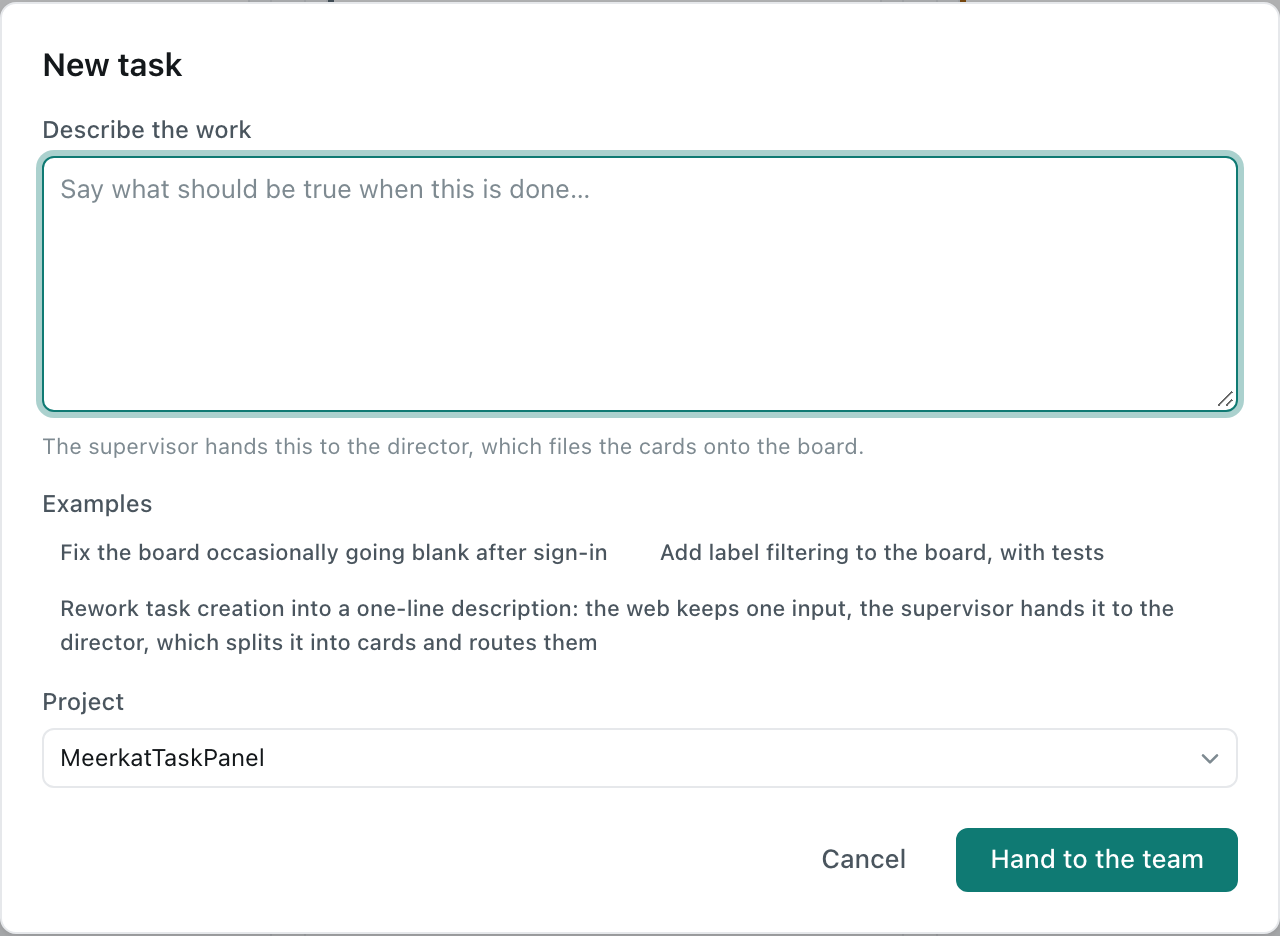
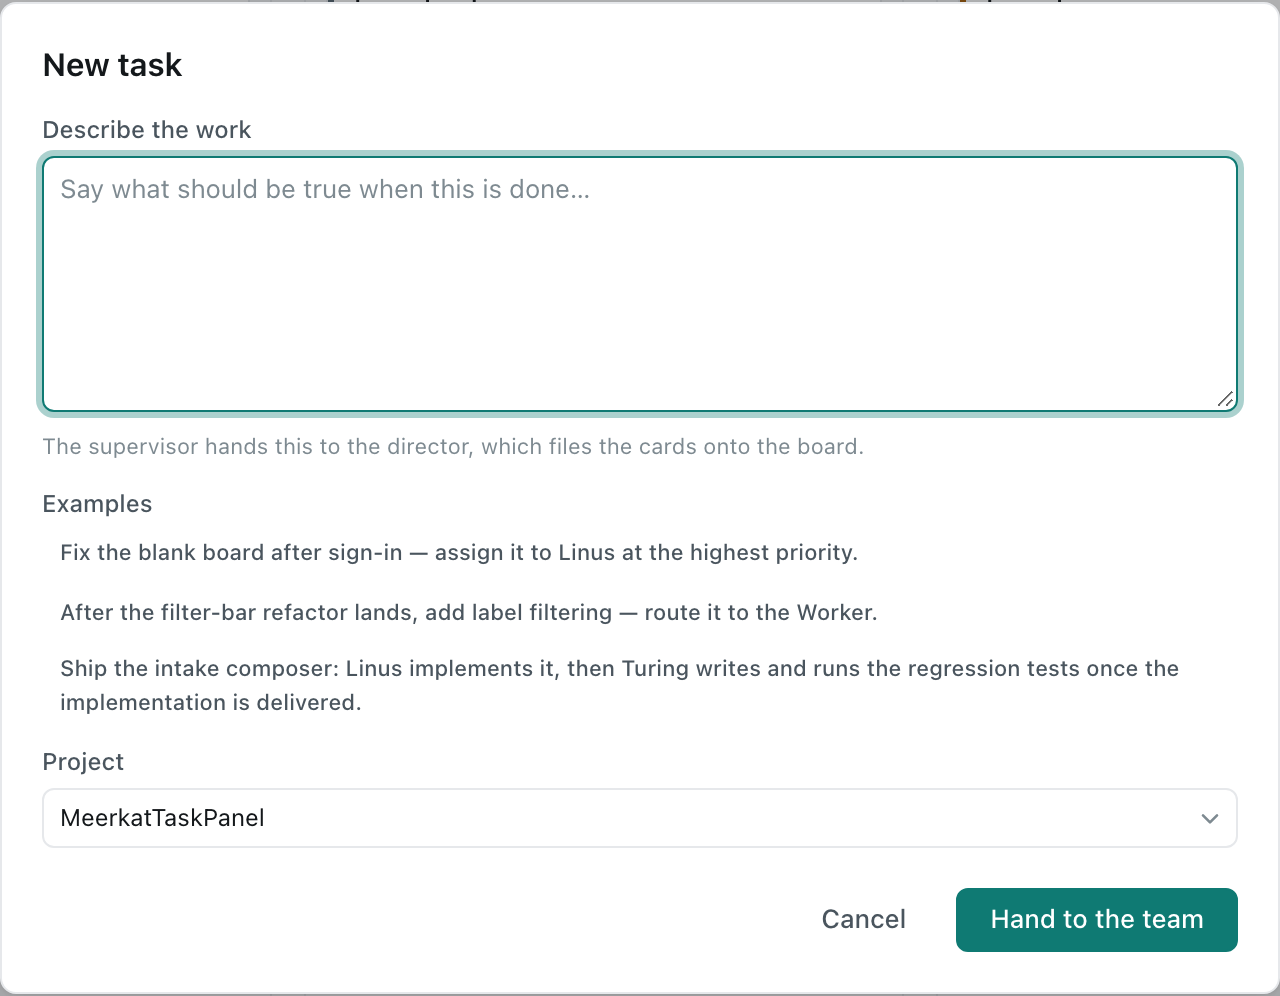
feat(create): make the examples a three-row routing ladder

diff --git a/design/prototype/app.js b/design/prototype/app.js
@@ -181,9 +181,9 @@
       "createTask.textHint": "Say what should be true when this is done…",
       "createTask.intakeHint": "The supervisor hands this to the director, which files the cards onto the board.",
       "createTask.examples": "Examples",
-      "createTask.example.simple": "Fix the board occasionally going blank after sign-in",
-      "createTask.example.medium": "Add label filtering to the board, with tests",
-      "createTask.example.complex": "Rework task creation into a one-line description: the web keeps one input, the supervisor hands it to the director, which splits it into cards and routes them",
+      "createTask.example.simple": "Fix the blank board after sign-in — assign it to Linus at the highest priority.",
+      "createTask.example.medium": "After the filter-bar refactor lands, add label filtering — route it to the Worker.",
+      "createTask.example.complex": "Ship the intake composer: Linus implements it, then Turing writes and runs the regression tests once the implementation is delivered.",
       "createTask.field.project": "Project",
       /* The two roster controls: free text, fuzzy match, no roster editor. */
       "combo.assigneePlaceholder": "Search or type a new name…",
@@ -506,9 +506,9 @@
       "createTask.textHint": "一句话说明完成时应该是什么样……",
       "createTask.intakeHint": "提交后由 supervisor 交给 director 拆成任务卡，卡片会出现在看板上。",
       "createTask.examples": "示例",
-      "createTask.example.simple": "修复登录后看板偶发空白的问题",
-      "createTask.example.medium": "给看板加按标签筛选，并补上测试",
-      "createTask.example.complex": "把创建任务改成一句话描述：Web 只留一个输入框，提交后由 supervisor 交给 director 拆卡并派给对应角色",
+      "createTask.example.simple": "修复登录后看板偶发空白的问题——交给 Linus，设为最高优先级。",
+      "createTask.example.medium": "等筛选栏重构完成后，给看板加标签筛选——交给 Worker。",
+      "createTask.example.complex": "实现需求投递框：由 Linus 开发，交付后由 Turing 编写并执行回归测试。",
       "createTask.field.project": "项目",
       "combo.assigneePlaceholder": "搜索或输入新姓名…",
       "combo.reporterPlaceholder": "搜索或输入新姓名…",

diff --git a/design/prototype/index.html b/design/prototype/index.html
@@ -4154,9 +4154,9 @@
           <div class="td-field">
             <span class="td-field-label" data-i18n="createTask.examples">Examples</span>
             <div class="td-intake-examples">
-              <button type="button" class="btn btn-xs btn-ghost" data-create-task-example data-example-kind="simple" data-i18n="createTask.example.simple">Fix the board occasionally going blank after sign-in</button>
-              <button type="button" class="btn btn-xs btn-ghost" data-create-task-example data-example-kind="medium" data-i18n="createTask.example.medium">Add label filtering to the board, with tests</button>
-              <button type="button" class="btn btn-xs btn-ghost" data-create-task-example data-example-kind="complex" data-i18n="createTask.example.complex">Rework task creation into a one-line description: the web keeps one input, the supervisor hands it to the director, which splits it into cards and routes them</button>
+              <button type="button" class="btn btn-xs btn-ghost" data-create-task-example data-example-kind="simple" data-i18n="createTask.example.simple">Fix the blank board after sign-in — assign it to Linus at the highest priority.</button>
+              <button type="button" class="btn btn-xs btn-ghost" data-create-task-example data-example-kind="medium" data-i18n="createTask.example.medium">After the filter-bar refactor lands, add label filtering — route it to the Worker.</button>
+              <button type="button" class="btn btn-xs btn-ghost" data-create-task-example data-example-kind="complex" data-i18n="createTask.example.complex">Ship the intake composer: Linus implements it, then Turing writes and runs the regression tests once the implementation is delivered.</button>
             </div>
           </div>
 

diff --git a/web/src/components/create/CreateTaskModal.vue b/web/src/components/create/CreateTaskModal.vue
@@ -120,14 +120,14 @@ async function submit() {
             </span>
           </label>
 
-          <div class="flex flex-col gap-2" data-create-task-examples>
+          <div class="flex flex-col gap-2">
             <span data-i18n="createTask.examples">{{ $t("createTask.examples") }}</span>
-            <div class="flex flex-wrap gap-2">
+            <div class="flex flex-col gap-2" data-create-task-examples>
               <button
                 v-for="example in examples"
                 :key="example.key"
                 type="button"
-                class="btn btn-xs btn-ghost h-auto max-w-full justify-start whitespace-normal text-left"
+                class="btn btn-xs btn-ghost h-auto w-full max-w-full justify-start whitespace-normal text-left"
                 data-create-task-example
                 :data-example-kind="example.key"
                 @click="fillExample(example)"

diff --git a/design/prototype/src/input.css b/design/prototype/src/input.css
@@ -4424,16 +4424,20 @@ html[data-theme="dark"] .modal-box {
     resize: vertical;
   }
 
+  /* R19 — one example per row: the three sentences are a reading ladder
+     (simple → complex), not a chip cloud, so the column order is the order. */
   .td-intake-examples {
     display: flex;
-    flex-wrap: wrap;
+    flex-direction: column;
     gap: 8px;
   }
-  /* An example is a sentence, not a label: it wraps inside the row instead of
-     widening the panel. */
+  /* An example is a sentence, not a label: it takes the whole row and wraps
+     inside it instead of widening the panel. */
   .td-intake-examples .btn {
+    width: 100%;
     max-width: 100%;
     height: auto;
+    justify-content: flex-start;
     white-space: normal;
     text-align: left;
   }

diff --git a/design/prototype/tw.css b/design/prototype/tw.css
@@ -6790,12 +6790,14 @@ html[data-theme="dark"] .modal-box {
   }
   .td-intake-examples {
     display: flex;
-    flex-wrap: wrap;
+    flex-direction: column;
     gap: 8px;
   }
   .td-intake-examples .btn {
+    width: 100%;
     max-width: 100%;
     height: auto;
+    justify-content: flex-start;
     white-space: normal;
     text-align: left;
   }

diff --git a/design/fidelity-r19.md b/design/fidelity-r19.md
@@ -1,0 +1,77 @@
+# 创建面示例：三行阶梯，覆盖路由词汇 · R19
+
+> 需求：谭玉 2026-11-11 会话原话——「创建任务的示例需要优化：1、三个示例排版应当放在独立的三行；2、示例覆盖的任务卡场景代表性不足，需要优化，比如：指派给谁来做，放到最高优先级，放在什么任务完成后来做，需要 turing 介入开发后的测试工作」。
+> 分工：本轮写入面 `design/**` + `web/**` + `test/web/**`；`CHANGELOG.md` 不在此处。
+> 轮次：**R19**。R18 已由 `DESIGN.md` §34（创建面收敛为一个描述框）占用。
+> 口径闭集（逐字使用）：`对齐` · `缺` · `简化` · `自创` · `口径` · `缺失口径`。定位一律「文件:选择器」或「文件:符号」，不写行号锚。
+
+## 0. 结论摘要
+
+- **① 三个示例各占一行。** `.td-intake-examples` 从 `flex-wrap` 改为 `flex-direction: column`；每个 `.btn` 取整行（`width: 100%`、`justify-content: flex-start`），文字在行内换行，面板不被撑宽。
+- **② 示例成为一条路由词汇的阶梯。** 简单例给出**指派人 + 最高优先级**；中等例给出**依赖 + 指派人**；复杂例给出**开发 → Turing 测试**的交接。三句合起来示范「描述里可以带哪些事实」，因为卡的字段最终由 director 决定。
+- **③ 面没有新增 hook、没有新增 i18n key。** `[data-create-task-example]` 仍是 3 个，`data-example-kind` 仍是 `simple|medium|complex`；三份 catalogue 只改值。
+- **④ 契约与浏览器腿都量到「一行一个」。** B10 新增 computed 规则（`flexDirection: column`）；dom-smoke 的 B10 腿量三行 `top` 互异、每行宽度 = 容器宽度（±2px）。
+- **⑤ 重拍两帧。** `10-create-task-modal.png` = 1280×996，`26-create-narrow-760.png` = 1280×980（面板 640×498 / 640×490，DSF 2）。
+
+## 1. 产品决策
+
+创建面只收一段描述，字段由 director 拆卡时决定。示例因此不是装饰，而是**人类可模仿的输入规格**：它要让人看到，描述里可以写清「谁做、多急、等什么、谁接着测」。旧三句只覆盖「修什么、加什么、改什么」，没有一条带路由信息，代表性不足。
+
+| 阶梯 | en | zh | 示范的路由事实 |
+|---|---|---|---|
+| simple | Fix the blank board after sign-in — assign it to Linus at the highest priority. | 修复登录后看板偶发空白的问题——交给 Linus，设为最高优先级。 | 指派人 + 优先级 |
+| medium | After the filter-bar refactor lands, add label filtering — route it to the Worker. | 等筛选栏重构完成后，给看板加标签筛选——交给 Worker。 | 依赖 + 指派人 |
+| complex | Ship the intake composer: Linus implements it, then Turing writes and runs the regression tests once the implementation is delivered. | 实现需求投递框：由 Linus 开发，交付后由 Turing 编写并执行回归测试。 | 开发 → 测试的角色交接 + 依赖 |
+
+三句都仍是**一段自然语言**，不是表单；点选后照旧填入文本框，可继续编辑。卡的语言、项目归属和验收仍由 director 从描述与项目上下文决定，示例不新增字段。
+
+## 2. 原型契约（B10）
+
+| 座位 | 本轮取值 |
+|---|---|
+| 容器 | `.td-intake-examples` = `display: flex; flex-direction: column; gap: 8px` |
+| 每一行 | `.td-intake-examples .btn` = `width: 100%; max-width: 100%; height: auto; justify-content: flex-start; white-space: normal; text-align: left` |
+| 顺序 | 文档顺序即 simple → medium → complex；`data-example-kind` 不变 |
+| hook | `[data-create-task-example]` × 3；`[data-create-task-examples]` 仍包住三行 |
+| 实现镜像 | `[data-create-task-examples]` 移到按钮容器上（原型与实现在同一 hook 上量 `flexDirection`） |
+
+**`口径`：** 原型与实现都在 `[data-create-task-examples]` 上量 `flex-direction: column`；实现按钮带 `w-full`，原型由 `.td-intake-examples .btn` 的 `width: 100%` 承担，两侧等价。
+
+## 3. 实测（宿主 Chromium，DSF 2）
+
+| 断言 | 实测 |
+|---|---|
+| 容器的 `flex-direction` | `column`（契约 computed 规则） |
+| 三行的 `top` | 3 个互异值（浏览器腿） |
+| 每行宽度 vs 容器 | 每行 = 容器宽度（±2px） |
+| 1512×950 面板 | 640 × 498 |
+| 760×900 面板 | 640 × 490 |
+| `blocks.dom` | 2/2 通过；562 条规则 0 失败；console/page error 0 |
+| i18n / 契约 / parity | 65 通过 / 0 失败 |
+
+## 4. 与既有面的关系
+
+- **`对齐`：** B10 的根、面板、表单、关闭钩子、描述框、项目下拉、hint、submit 全部未动；只重排示例容器并换文案。
+- **`缺`：** 没有新增卡字段或 intake 字段；示例只是文本。
+- **`自创`：** 无。三句都使用既有角色名（Linus / Worker / Turing），不引入新词。
+- **`简化`：** 示例从「chip 云」简化为「三行阶梯」，阅读顺序即复杂度顺序。
+- **退役：** 无。B10 的 hook 面与 i18n key 面保持原数。
+
+## 5. 截图
+
+沿用既有口径：device-scale-factor 2，无 toast，过渡关闭，按**面板元素**裁切。
+
+| 帧 | 处置 | 尺寸（像素） |
+|---|---|---|
+| `10-create-task-modal.png` | 重拍：三行示例，1512×950 | 1280×996（640×498 @2×） |
+| `26-create-narrow-760.png` | 重拍：760 宽下仍是 640 面板，三行示例 | 1280×980（640×490 @2×） |
+
+## 6. `tw.css`
+
+按 `design/prototype/README.md` 的构建法重建：本轮增量 **+57 bytes**，diff 只有 `.td-intake-examples` 的 `flex-wrap` → `flex-direction: column`，以及 `.btn` 的 `width: 100%`、`justify-content: flex-start` 两行；无新增类选择器、无 `:root` token 变化。
+
+## 7. 未跑 / 边界
+
+- **容器门禁**按仓库约定不进入编辑循环：`npm run verify:docker` 是 pre-push 门，本轮交付时由 pre-push/CI 跑。
+- 本轮不改 B10 之外的面，也不改 intake 的域、HTTP 或 supervisor 路径。
+- 示例是 UI 文案；它们不改变 director 的拆卡规则，只改变人类可模仿的输入样例。

diff --git a/design/prototype/README.md b/design/prototype/README.md
@@ -122,9 +122,10 @@ holds whichever toolchain the ranges resolve to.
 
 Two `@source` directives limit class scanning to `index.html` and `app.js`
 (`@import "tailwindcss" source(none)` disables auto-detection, so nothing else on
-disk can leak classes into the bundle). Current output: **203 KB** (`tw.css` = 208098
-bytes, 2026-10-15 — the line had gone stale again: it still read 205057 while the file had
-grown to 208140 across the rounds after it, and this change took 42 bytes back off; the
+disk can leak classes into the bundle). Current output: **205 KB** (`tw.css` = 210007
+bytes, 2026-11-11 — R19's three-row examples added 57 bytes to 209950; before that the
+line had gone stale: it still read 205057 while the file had grown to 208140 across the
+rounds after it, and that change took 42 bytes back off; the
 paragraph above says why a rebuild will not land on the number either. That R13 修订 rebuild
 was where 决定甲 withdrew the `✕` beside the assignee control and
 its three rules, so the round is **−549 bytes / −23 lines / +0 lines** against the 205606
@@ -486,7 +487,7 @@ alternative.
 | `07-move-menu.png` | the shared "Move to" menu |
 | `08-filters-agent.png` | assignee filter = Agent |
 | `09-no-results.png` | no-results empty state |
-| `10-create-task-modal.png` | **R18** — the create composer: one description, three examples, the project; the routing fields are gone |
+| `10-create-task-modal.png` | **R19** — the create composer: one description, three example sentences on their own rows, the project; the routing fields are gone |
 | `11…14-viewport-*.png` | 1240 / 980 / 760 / 500 |
 | `15-no-javascript.png` | the same document with its `<script>` tags removed — proof that the core structure survives without JavaScript (all 18 cards visible, because the project filter is the only thing JS removes) |
 | `16-states-panel.png` | the states gallery: loading, empty column, no results, error and the three toast kinds in one frame |
@@ -496,7 +497,7 @@ alternative.
 | `20-drawer-zh.png` | the drawer in Chinese: properties, relation labels, comment role chips and relative timestamps |
 | `21-access-panel-dark.png` | the access panel in dark theme |
 | `22-lang-menu.png` | the language dropdown open above the middle footer cell, `English` marked as the current choice |
-| `26-create-narrow-760.png` | **R18** — the same composer at 760px: one column, the panel capped at 640px |
+| `26-create-narrow-760.png` | **R19** — the same composer at 760px: three full-width example rows, the panel capped at 640px |
 | `33-theme-light-1512.png` | **theme three-state** — `Light`, the no-record default: sun glyph, `Light` label, light board |
 | `34-theme-dark-1512.png` | **theme three-state** — one press on: `Dark`, moon glyph, dark board |
 | `35-theme-auto-darkos-1512.png` | **theme three-state** — two presses on: `Auto` under a **dark** system preference — display glyph, `Auto` label, dark board |
@@ -627,6 +628,11 @@ the old form were either re-shot or retired. `10-create-task-modal` and
 `28-md-write-scroll`, `29-create-parent-dropdown`, `30-create-depends-multiselect`,
 `39`–`42` and `44` (the create-side label frames). The drawer's own frames (`43`,
 `45`–`48`) stay: the label control survives there, and B23's editor is now the drawer's.
+
+**R19 recapture:** the examples became three full-width rows and their copy changed, so
+`10-create-task-modal` and `26-create-narrow-760` are re-shot from the current build at
+1512×950 and 760×900 (DSF 2, transitions disabled, no toast). The panel is 640×498 and
+640×490; the frames are 1280×996 and 1280×980. No other frame shows the composer.
 
 **R4 recapture:** the create dialog changed size, so every frame that shows it was
 re-shot — `10-create-task-modal`, `23-create-two-col`, `24-md-editor-split`,

diff --git a/design/DESIGN.md b/design/DESIGN.md
@@ -2851,3 +2851,34 @@ escape, close and focus behaviour is the same dialog it was.
   dialog files no card, so there is no kind to withhold.
 - **`web/scripts/dialog-track-parity.mjs`** is retired: there is no second track to compare.
   The combo geometry leg reads the drawer alone.
+
+## 35. Review round R19 — the composer's examples become a routing ladder
+
+R18 shrank the create surface to one description. The three examples still read as three
+ways to name work ("fix X", "add Y", "rework Z"), so they taught the box's format but not
+what a good description can carry. R19 turns them into a **routing ladder** and puts each
+on its own row.
+
+### 35.1 The examples, and the facts they teach
+
+| Ladder | What it names |
+|---|---|
+| simple | an assignee and the highest priority |
+| medium | a dependency (after the refactor lands) and an assignee |
+| complex | a development role, then a test role, with the test gated on delivery |
+
+The director still decides the card's fields; the examples show that a description may
+state the who, the how-urgent and the what-first. They remain one natural-language
+sentence each, fill the box on press, and stay editable.
+
+### 35.2 Layout
+
+`.td-intake-examples` is a column and each button takes the row: `width: 100%`,
+`justify-content: flex-start`, `white-space: normal`, `height: auto`. The copy is longer
+than R18's, so wrapping inside the row — not widening the panel — is the point. B10 adds
+one computed contract rule (`flexDirection: column`); the browser leg measures three
+distinct row tops and each row's width against its container.
+
+Measured (`R19` record, `design/fidelity-r19.md`): panel 640×498 at 1512×950 and 640×490
+at 760×900; three rows, each the container's width. No hook, key or intake field is
+added. `10-create-task-modal.png` and `26-create-narrow-760.png` are recaptured.

diff --git a/design/BLOCKS.md b/design/BLOCKS.md
@@ -904,9 +904,17 @@ deliberate: `.td-modal-box` also sets a width (and its ≤760 branch another), s
 rule names both to win on specificity. Both trees measure 640px at 1512 and at 760
 (`R18`; `design/fidelity-r18.md`).
 
-**An example is a sentence, not a label.** `.td-intake-examples .btn` wraps
-(`white-space: normal`, `max-width: 100%`, `height: auto`), so the complex example fills the
-row instead of widening the panel.
+**An example is a sentence, not a label, and a ladder, not a chip cloud.** R19 makes
+`.td-intake-examples` a column (`flex-direction: column`); each `.td-intake-examples .btn`
+takes the whole row (`width: 100%`, `justify-content: flex-start`, `white-space: normal`,
+`height: auto`), so the complex example wraps **inside its own row** instead of widening the
+panel. The three rows read simple → medium → complex in document order
+(`design/fidelity-r19.md`).
+
+**The set teaches the routing vocabulary.** The simple example names an assignee and the
+highest priority; the medium one names a dependency and an assignee; the complex one names a
+development → Turing-test handoff. Those are the facts the director has to decide when it
+files the cards, so the examples show that a description may carry them.
 
 **The receipt is a toast.** The prototype's submit shows `toast.intakeAccepted` and clears the
 dialog; the implementation posts `POST /api/v1/intake` and reads the request back when its
